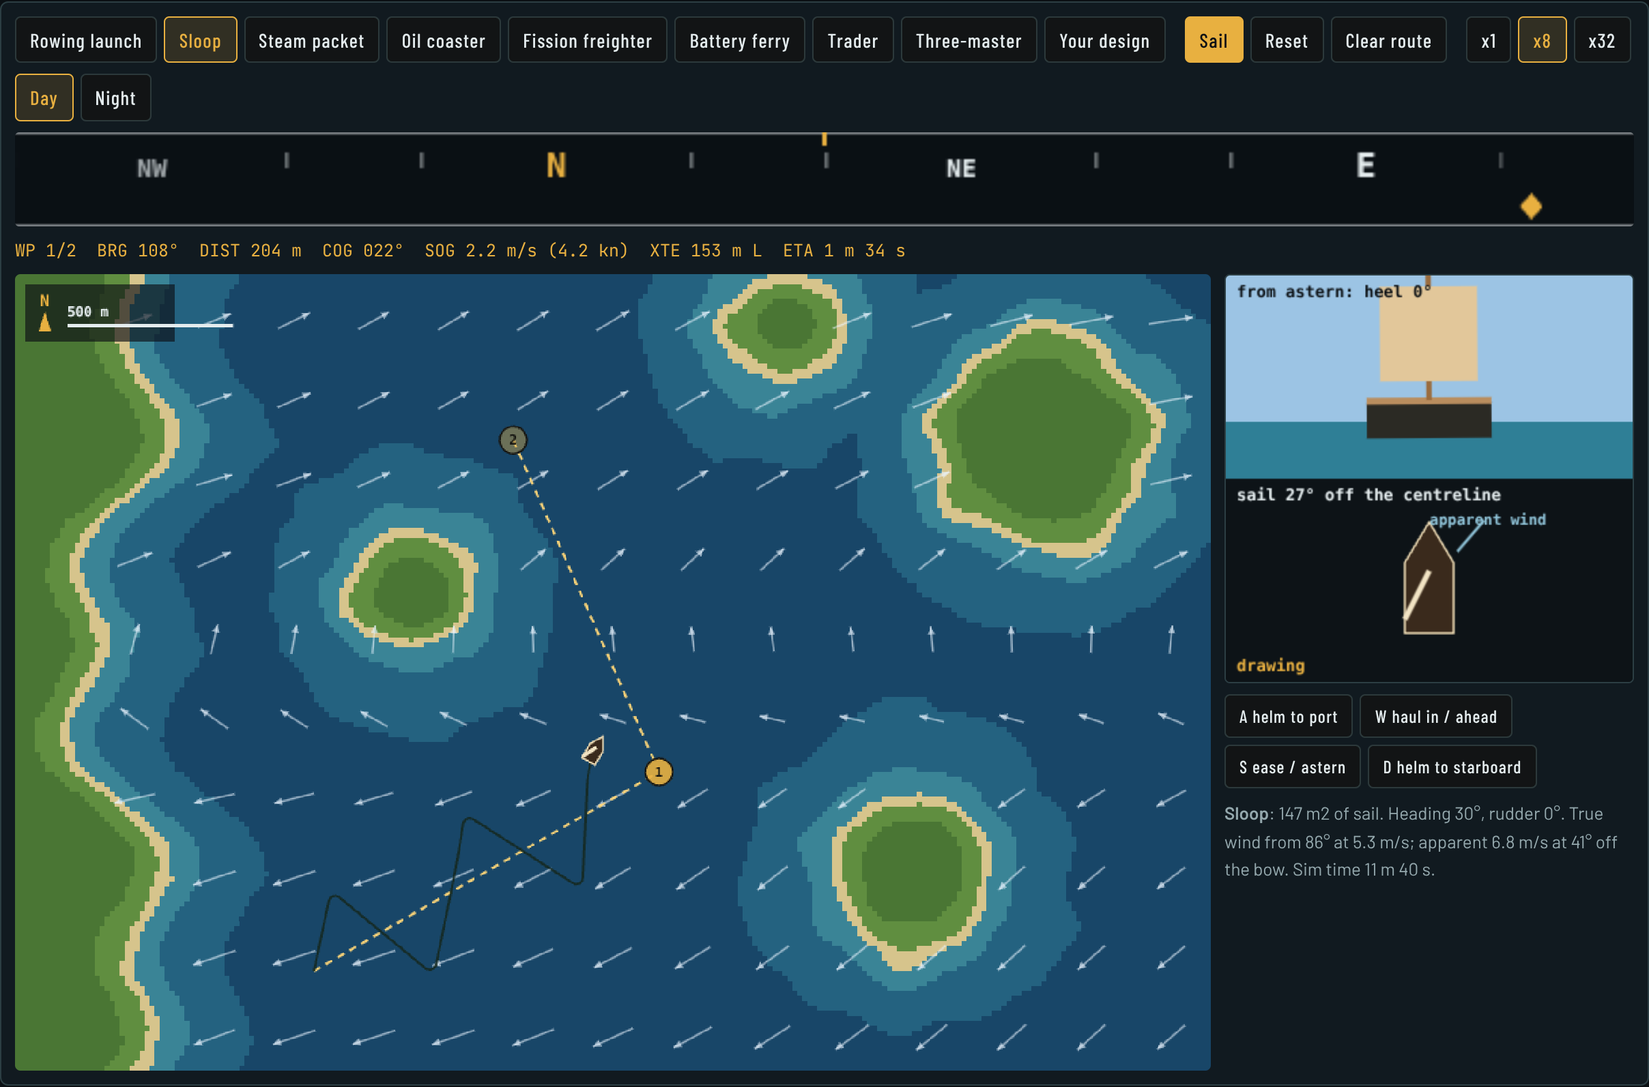
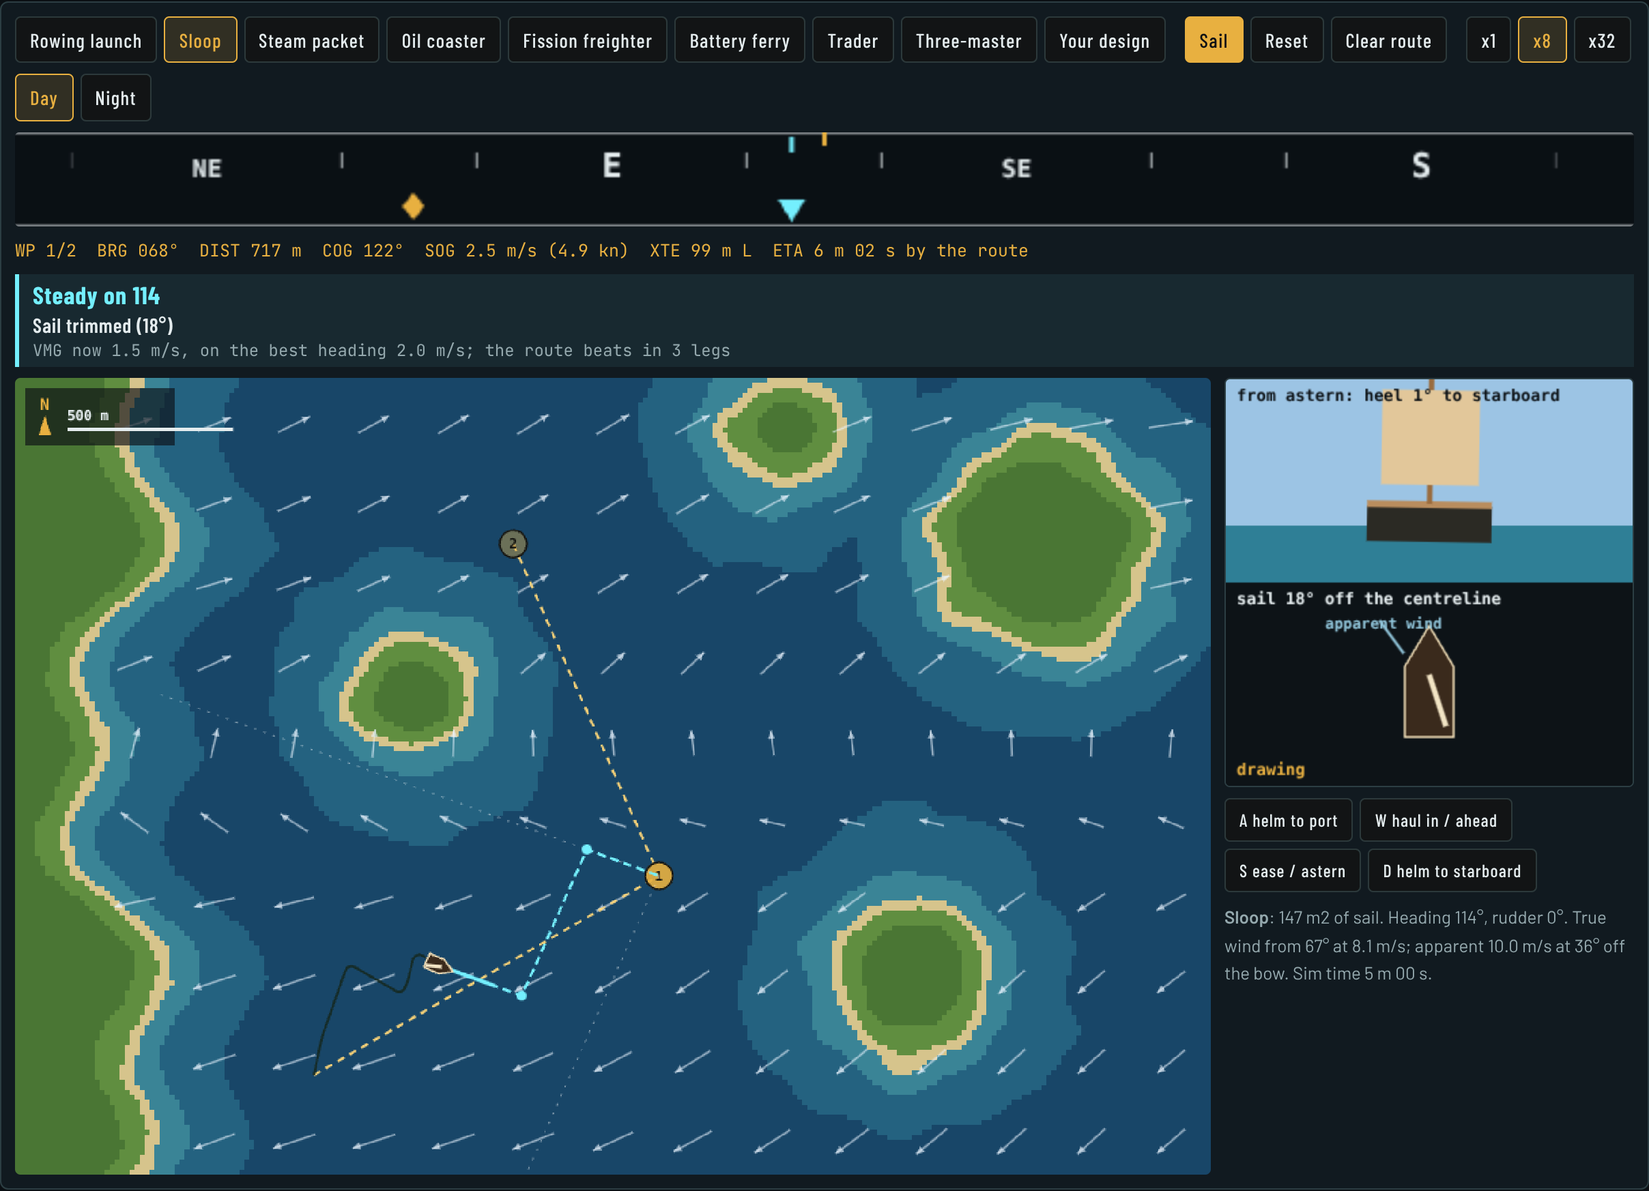
M23: the GPS coaches the helm and the sail, and plans a sailing route
The owner: "the ship gps system should tell me what direction to turn my
ship and what direction to turn the sail to get the optimal speed towards
my waypoint", and "a sailing route if you will". Sail it sweeps headings
through the ship's own sail and drag model for the best speed made good,
plans the route a sailor would sail (one board, or close-hauled legs
between laylines with tack points, gybes downwind), and advises in words:
the turn, when to tack, the sail trim and the VMG it would gain. The
compass bar marks the best heading; the chart draws the route. Advice
only: the player steers. Screenshots on SwiftShader.

Claude-Session: https://claude.ai/code/session_01SztpvFkncDFbmhJsds55PW

diff --git a/docs/mockups/drydock.html b/docs/mockups/drydock.html
@@ -142,6 +142,11 @@ tr:last-child td{border-bottom:0}
 .sailbar{display:flex;flex-wrap:wrap;gap:8px 14px}
 .seg button.go{background:var(--amber);color:var(--ground);border-color:var(--amber)}
 #compass{width:100%;height:auto;display:block;border-radius:3px}
+.advice{display:grid;gap:2px;border-left:3px solid #74effe;padding:4px 10px;background:rgba(116,239,254,.07)}
+.advice .h{font:700 18px var(--display);letter-spacing:.03em;color:#74effe}
+.advice .h.tack{color:var(--amber)}
+.advice .sl{font:600 15px var(--display);letter-spacing:.03em}
+.advice .v{font:12px var(--mono);color:var(--muted)}
 .gps{font-size:12.5px;color:var(--amber);white-space:pre-wrap;min-height:1.5em}
 .sailgrid{display:grid;grid-template-columns:minmax(0,1fr) 300px;gap:10px;align-items:start}
 #seamap{width:100%;height:auto;display:block;border-radius:4px;cursor:crosshair;image-rendering:pixelated;touch-action:none}
@@ -226,7 +231,7 @@ tr:last-child td{border-bottom:0}
 
 <section aria-labelledby="s4">
   <h2 id="s4"><span class="n">4</span>Sail it</h2>
-  <p>A sea chart drawn compass-north up, as the game's map is, with the wind as arrows: trades from the east-north-east in the south, westerlies in the north, a slack band between. Click the chart to add a waypoint, drag one to move it, right-click to take it away. Then press <b>Sail</b>. A and D put the helm over (a rudder is a foil: she turns only with way on). On a sailing ship W hauls the sheet in and S eases it; on a powered one W and S step the telegraph through astern, stop, slow, half and full. Nothing steers for you: a sailing ship cannot point closer than about 45 degrees to the wind, so to reach a waypoint upwind she must tack. A waypoint counts as reached within 30 m, and the next one takes over.</p>
+  <p>A sea chart drawn compass-north up, as the game's map is, with the wind as arrows: trades from the east-north-east in the south, westerlies in the north, a slack band between. Click the chart to add a waypoint, drag one to move it, right-click to take it away. Then press <b>Sail</b>. A and D put the helm over (a rudder is a foil: she turns only with way on). On a sailing ship W hauls the sheet in and S eases it; on a powered one W and S step the telegraph through astern, stop, slow, half and full. Nothing steers for you: a sailing ship cannot point closer than about 45 degrees to the wind, so to reach a waypoint upwind she must tack. A waypoint counts as reached within 30 m, and the next one takes over. The GPS plans the route a sailor would sail (the cyan dashes: straight when the mark can be laid on one board, close-hauled legs between the faint laylines when it is upwind, tack points as dots), marks the best heading on the compass bar (cyan) beside the waypoint (amber), and tells you which way to turn and how to trim. It advises; it never steers.</p>
   <div class="sailwrap" id="sailWrap" tabindex="0" aria-label="Sail it: click the chart for waypoints, A and D steer, W and S sheet or throttle">
     <div class="sailbar">
       <div class="seg" id="sailShip" role="group" aria-label="Ship"></div>
@@ -236,6 +241,7 @@ tr:last-child td{border-bottom:0}
     </div>
     <canvas id="compass" width="720" height="42" aria-label="Compass bar: the heading, and the active waypoint as a diamond"></canvas>
     <div class="gps mono" id="gps"></div>
+    <div class="advice" id="advice" aria-live="polite"></div>
     <div class="sailgrid">
       <canvas id="seamap" width="960" height="640" aria-label="Sea chart, north up"></canvas>
       <div class="sailside">
@@ -1382,6 +1388,22 @@ let dockApi = null;
   const keys = new Set();
   let running = false, warp = 8, night = Q.get("stime") === "night";
   function reset() { Object.assign(S, {x: START.x, y: START.y, psi: START.psi, u: 0, rud: 0, delta: 45, thr: 1, rowT: 0, heel: 0, lee: 0, t: 0, track: [[START.x, START.y]], aground: false, done: false}); ai = 0; from = {x: START.x, y: START.y}; }
+  // ---- the sail as a foil in the apparent wind: the one model the sim, the polar and the advice all use
+  function sailF(beta, delta, A) {
+    const alpha = beta - delta, luff = Math.min(1, Math.max(0, (beta - 20) / 12));   // the sail luffs inside about 25 degrees of apparent wind: about 45 degrees of true wind
+    let CL = alpha <= 0 ? 0 : alpha <= 15 ? 0.09 * alpha : Math.max(0, 1.35 - 0.035 * (alpha - 15));
+    CL *= luff * luff * (3 - 2 * luff);
+    const CD = 0.05 + 1.2 * Math.sin(Math.max(0, alpha) * deg) ** 2 + 0.1 * CL * CL, q = 0.5 * RHO_AIR * A * A * P.SA, b = beta * deg;
+    return {drive: q * (CL * Math.sin(b) - CD * Math.cos(b)), side: q * (CL * Math.cos(b) + CD * Math.sin(b)), alpha};
+  }
+  function apparent(hd, u, w) { const h = {e: Math.sin(hd * deg), n: Math.cos(hd * deg)}, ae = w.e - u * h.e, an = w.n - u * h.n, A = Math.hypot(ae, an) || 1e-6; return {A, beta: Math.acos(Math.max(-1, Math.min(1, (-ae * h.e - an * h.n) / A))) / deg}; }
+  function bestTrim(beta, A) { let bd = 0, bv = -Infinity; for (let d = 0; d <= 90; d += 3) { const v = sailF(beta, d, A).drive; if (v > bv) { bv = v; bd = d; } } return {delta: bd, drive: bv}; }
+  // the polar: the steady speed through the water on a heading, sails trimmed for the most drive
+  function polar(hd, w) {
+    const net = u => { const ap = apparent(hd, u, w); return bestTrim(ap.beta, ap.A).drive - (P.s.R(u) + 150 * u); };
+    if (net(0) <= 0) return 0;
+    let lo = 0, hi = 20; for (let i = 0; i < 16; i++) { const m = (lo + hi) / 2; if (net(m) > 0) lo = m; else hi = m; } return lo;
+  }
   // ---- one step of the physics
   function step(dt, ctl) {
     const w = wind(S.x, S.y), h = {e: Math.sin(S.psi * deg), n: Math.cos(S.psi * deg)}, right = {e: Math.cos(S.psi * deg), n: -Math.sin(S.psi * deg)};
@@ -1394,14 +1416,7 @@ let dockApi = null;
     if (P.sail && ctl.ease) S.delta = Math.min(90, S.delta + 25 * dt);
     if (!P.sail) S.delta = Math.max(0, Math.min(90, beta - 15));
     let drive = 0, side = 0;
-    if (P.SA > 0) {
-      const alpha = beta - S.delta, luff = Math.min(1, Math.max(0, (beta - 20) / 12));   // the sail luffs inside about 25 degrees of apparent wind: about 45 degrees of true wind
-      let CL = alpha <= 0 ? 0 : alpha <= 15 ? 0.09 * alpha : Math.max(0, 1.35 - 0.035 * (alpha - 15));
-      CL *= luff * luff * (3 - 2 * luff);
-      const CD = 0.05 + 1.2 * Math.sin(Math.max(0, alpha) * deg) ** 2 + 0.1 * CL * CL, q = 0.5 * RHO_AIR * A * A * P.SA, b = beta * deg;
-      drive = q * (CL * Math.sin(b) - CD * Math.cos(b)); side = q * (CL * Math.cos(b) + CD * Math.sin(b));
-      S.alpha = alpha;
-    }
+    if (P.SA > 0) { const f2 = sailF(beta, S.delta, A); drive = f2.drive; side = f2.side; S.alpha = f2.alpha; }
     let thrust = 0;
     if (P.power) {
       const frac = THR[S.thr][1];
@@ -1431,6 +1446,55 @@ let dockApi = null;
     return {brg, dist, xte, eta: S.sog > 0.2 ? dist / S.sog : Infinity};
   }
   const fmtT = s => !isFinite(s) ? "--" : s >= 3600 ? `${Math.floor(s / 3600)} h ${Math.round(s % 3600 / 60)} m` : `${Math.floor(s / 60)} m ${String(Math.round(s % 60)).padStart(2, "0")} s`;
+  // ---- the sailing route (decision 3a): straight if the mark can be laid on one board, else close-hauled (or gybing)
+  // legs between the laylines, tacking where the cross-track error reaches the lane; the helm advice steers the first leg
+  let plan = null;
+  function replan() {
+    plan = null; if (!P.ok || ai >= wps.length) return;
+    const mk = wps[ai], w = wind(S.x, S.y), brg = wrap360(Math.atan2(mk.x - S.x, mk.y - S.y) / deg), dist = Math.hypot(mk.x - S.x, mk.y - S.y);
+    const fromSide = hd => Math.sign(wrap180(w.from - hd)) || 1;   // +1: the wind comes from starboard
+    if (!P.SA || !P.sail) { const v = Math.max(S.u, 0.1); plan = {legs: [{x0: S.x, y0: S.y, x1: mk.x, y1: mk.y, hd: brg, v}], best: brg, vmgBest: v, straight: true, delta: null, laylines: [], w, brg, tackNow: false}; plan.eta = dist / v; return; }
+    const pol = []; for (let hd = 0; hd < 360; hd += 2) { const v = polar(hd, w); pol.push({hd, v, vmg: v * Math.cos((hd - brg) * deg), side: fromSide(hd)}); }
+    const best = pol.reduce((a, b) => b.vmg > a.vmg ? b : a), boards = [1, -1].map(sd => pol.filter(p => p.side === sd).reduce((a, b) => b.vmg > a.vmg ? b : a, {vmg: -Infinity}));
+    const straight = Math.abs(wrap180(best.hd - brg)) <= 3 || boards.some(b => !isFinite(b.vmg));
+    const legs = [];
+    if (straight) { const v = polar(brg, w); legs.push({x0: S.x, y0: S.y, x1: mk.x, y1: mk.y, hd: brg, v: Math.max(v, 0.1)}); }
+    else {
+      const cur = fromSide(S.psi), here = boards.find(b => b.side === cur), there = boards.find(b => b.side !== cur);
+      let b = here.vmg >= there.vmg * 0.9 ? here : there, other = b === here ? there : here, x = S.x, y = S.y;
+      const lane = Math.max(80, Math.min(260, dist * 0.25)), lx = (mk.x - S.x) / dist, ly = (mk.y - S.y) / dist;
+      for (let n = 0; n < 24; n++) {
+        const he = Math.sin(b.hd * deg), hn = Math.cos(b.hd * deg), oe = Math.sin(other.hd * deg), on = Math.cos(other.hd * deg);
+        // where along this board the mark comes onto the other board's layline
+        const det = he * (-on) - hn * (-oe), t = det ? ((mk.x - x) * (-on) - (mk.y - y) * (-oe)) / det : -1;
+        // where this board meets the edge of the lane
+        const cxs = (x - S.x) * ly - (y - S.y) * lx, rate = he * ly - hn * lx, tl = rate ? ((Math.sign(rate) * lane) - cxs) / rate : Infinity;
+        if (t >= 0 && t <= tl) { legs.push({x0: x, y0: y, x1: x + he * t, y1: y + hn * t, hd: b.hd, v: b.v}); x += he * t; y += hn * t; legs.push({x0: x, y0: y, x1: mk.x, y1: mk.y, hd: other.hd, v: other.v}); break; }
+        const tt = Math.max(0, tl); legs.push({x0: x, y0: y, x1: x + he * tt, y1: y + hn * tt, hd: b.hd, v: b.v}); x += he * tt; y += hn * tt; [b, other] = [other, b];
+        if (n === 23) legs.push({x0: x, y0: y, x1: mk.x, y1: mk.y, hd: b.hd, v: b.v});
+      }
+    }
+    const len = l => Math.hypot(l.x1 - l.x0, l.y1 - l.y0);
+    while (legs.length > 1 && len(legs[0]) < 15) legs.shift();   // a leg too short to sail: the tack is now
+    const first = legs[0], ap = apparent(first.hd, Math.max(S.u, first.v * 0.8), w);
+    plan = {legs, best: first.hd, vmgBest: first.v * Math.cos((first.hd - brg) * deg), straight, brg, w,
+      tackNow: !straight && fromSide(first.hd) !== fromSide(S.psi), delta: bestTrim(ap.beta, ap.A).delta,
+      eta: legs.reduce((a, l) => a + len(l) / Math.max(0.1, l.v), 0), laylines: straight ? [] : boards.map(b => b.hd)};
+  }
+  function advice() {
+    if (!plan) return null;
+    const turn = wrap180(plan.best - S.psi), side = turn > 0 ? "starboard" : "port", gp = gps(), vmgNow = S.sog * Math.cos((S.cog - gp.brg) * deg);
+    let helm;
+    if (plan.tackNow) { const through = Math.sign(turn) === Math.sign(wrap180(plan.w.from - S.psi)); helm = `${through ? "Tack" : "Gybe"} now: bring her ${through ? "through" : "away from"} the wind to ${side} (head ${String(Math.round(plan.best) % 360).padStart(3, "0")})`; }
+    else helm = Math.abs(turn) < 4 ? `Steady on ${String(Math.round(S.psi) % 360).padStart(3, "0")}` : `Turn ${Math.abs(Math.round(turn))}° to ${side} (head ${String(Math.round(plan.best) % 360).padStart(3, "0")})`;
+    let sail = "";
+    if (P.SA > 0 && P.sail) {
+      const d = plan.delta - S.delta;
+      sail = Math.abs(d) < 3 ? `Sail trimmed (${S.delta.toFixed(0)}°)` : d > 0 ? `Ease the sail ${Math.round(d)}° (to ${plan.delta}°)` : `Haul in ${Math.round(-d)}° (to ${plan.delta}°)`;
+      if (S.beta < 24) sail += ": in irons"; else if (S.alpha < 0) sail += ": luffing"; else if (S.alpha > 22) sail += ": stalled";
+    } else if (P.power) sail = `Telegraph: ${THR[S.thr][0]}`;
+    return {helm, sail, vmgNow, vmgBest: plan.vmgBest, tack: plan.tackNow};
+  }
   // ---- drawing
   const X = x => x * K, Y = y => (WY - y) * K;
   function drawMap() {
@@ -1450,6 +1514,15 @@ let dockApi = null;
     wps.forEach((w, i) => { c.beginPath(); c.arc(X(w.x), Y(w.y), R_WP * K + 3, 0, Math.PI * 2); c.fillStyle = i < ai ? "rgba(143,220,154,0.5)" : i === ai ? "rgba(232,176,64,0.9)" : "rgba(232,176,64,0.4)"; c.fill(); c.strokeStyle = "#161612"; c.lineWidth = 1.5; c.stroke(); c.fillStyle = "#161612"; c.font = "700 11px JetBrains Mono, monospace"; c.fillText(String(i + 1), X(w.x) - 3.5, Y(w.y) + 4); });
     // track
     c.strokeStyle = night ? "rgba(143,220,154,0.75)" : "rgba(20,40,30,0.85)"; c.lineWidth = 2; c.beginPath(); S.track.forEach(([x, y], i) => i ? c.lineTo(X(x), Y(y)) : c.moveTo(X(x), Y(y))); c.lineTo(X(S.x), Y(S.y)); c.stroke();
+    // the sailing route: laylines faint, legs dashed, tack points marked, and the best heading from the bow
+    if (plan) {
+      const mk = wps[ai];
+      c.strokeStyle = night ? "rgba(116,239,254,0.25)" : "rgba(255,255,255,0.4)"; c.lineWidth = 1; c.setLineDash([2, 6]);
+      for (const hd of plan.laylines) { c.beginPath(); c.moveTo(X(mk.x), Y(mk.y)); c.lineTo(X(mk.x - Math.sin(hd * deg) * 1600), Y(mk.y - Math.cos(hd * deg) * 1600)); c.stroke(); }
+      c.setLineDash([7, 4]); c.strokeStyle = "#74effe"; c.lineWidth = 2.2; c.beginPath(); plan.legs.forEach((l, i) => { if (!i) c.moveTo(X(l.x0), Y(l.y0)); c.lineTo(X(l.x1), Y(l.y1)); }); c.stroke(); c.setLineDash([]);
+      c.fillStyle = "#74effe"; plan.legs.slice(1).forEach(l => { c.beginPath(); c.arc(X(l.x0), Y(l.y0), 4, 0, Math.PI * 2); c.fill(); });
+      c.strokeStyle = "#74effe"; c.lineWidth = 3; c.beginPath(); c.moveTo(X(S.x), Y(S.y)); c.lineTo(X(S.x + Math.sin(plan.best * deg) * 180), Y(S.y + Math.cos(plan.best * deg) * 180)); c.stroke();
+    }
     // the ship, drawn large: a hull pointing along her heading, the boom to leeward, running lights at night
     c.save(); c.translate(X(S.x), Y(S.y)); c.rotate(S.psi * deg);
     if (night) for (const [lx, ly, col] of [[-5, -2, "255,60,60"], [5, -2, "60,255,110"], [0, 11, "255,255,255"]]) { const g = c.createRadialGradient(lx, ly, 0, lx, ly, 10); g.addColorStop(0, `rgba(${col},0.9)`); g.addColorStop(1, `rgba(${col},0)`); c.fillStyle = g; c.fillRect(lx - 10, ly - 10, 20, 20); }
@@ -1476,6 +1549,7 @@ let dockApi = null;
     }
     const gp = gps();
     if (gp) { const d = wrap180(gp.brg - head); if (Math.abs(d) <= 90) { const x = W / 2 + d * px; c.globalAlpha = 1; c.fillStyle = "#e8b040"; c.beginPath(); c.moveTo(x, 27); c.lineTo(x + 5, 33); c.lineTo(x, 39); c.lineTo(x - 5, 33); c.closePath(); c.fill(); } }
+    if (plan) { const d = wrap180(plan.best - head); if (Math.abs(d) <= 90) { const x = W / 2 + d * px; c.globalAlpha = 1; c.fillStyle = "#74effe"; c.beginPath(); c.moveTo(x, H - 2); c.lineTo(x + 6, H - 12); c.lineTo(x - 6, H - 12); c.closePath(); c.fill(); c.fillRect(x - 1, 2, 2, 7); } }
     c.globalAlpha = 1; c.fillStyle = "#e8b040"; c.fillRect(W / 2 - 1, 0, 2, 6);
   }
   function drawHeel() {
@@ -1506,11 +1580,14 @@ let dockApi = null;
   }
   function readout() {
     const gp = gps(), el = document.getElementById("gps"), st = document.getElementById("sailState");
-    el.textContent = gp ? `WP ${ai + 1}/${wps.length}  BRG ${gp.brg.toFixed(0).padStart(3, "0")}°  DIST ${gp.dist >= 1000 ? (gp.dist / 1000).toFixed(2) + " km" : gp.dist.toFixed(0) + " m"}  COG ${S.cog.toFixed(0).padStart(3, "0")}°  SOG ${S.sog.toFixed(1)} m/s (${(S.sog * 1.944).toFixed(1)} kn)  XTE ${Math.abs(gp.xte).toFixed(0)} m ${gp.xte > 1 ? "R" : gp.xte < -1 ? "L" : ""}  ETA ${fmtT(gp.eta)}` : wps.length ? `Route done: every waypoint reached in ${fmtT(S.t)}.` : "No route: click the map to add waypoints.";
+    el.textContent = gp ? `WP ${ai + 1}/${wps.length}  BRG ${gp.brg.toFixed(0).padStart(3, "0")}°  DIST ${gp.dist >= 1000 ? (gp.dist / 1000).toFixed(2) + " km" : gp.dist.toFixed(0) + " m"}  COG ${S.cog.toFixed(0).padStart(3, "0")}°  SOG ${S.sog.toFixed(1)} m/s (${(S.sog * 1.944).toFixed(1)} kn)  XTE ${Math.abs(gp.xte).toFixed(0)} m ${gp.xte > 1 ? "R" : gp.xte < -1 ? "L" : ""}  ETA ${fmtT(plan ? plan.eta : gp.eta)} by the route` : wps.length ? `Route done: every waypoint reached in ${fmtT(S.t)}.` : "No route: click the map to add waypoints.";
+    const ad = advice(), av = document.getElementById("advice");
+    av.innerHTML = ad ? `<div class="h ${ad.tack ? "tack" : ""}">${ad.helm}</div><div class="sl">${ad.sail}</div><div class="v">VMG now ${ad.vmgNow.toFixed(1)} m/s, on the best heading ${ad.vmgBest.toFixed(1)} m/s${plan && !plan.straight ? `; the route beats in ${plan.legs.length} legs` : ""}</div>` : "";
     const w = wind(S.x, S.y);
     st.innerHTML = `<b>${P.name}</b>: ${P.sail ? `${P.SA.toFixed(0)} m2 of sail` : P.row && !P.shaft ? `${P.row.toFixed(1)} kW of oars${S.rowT > 600 ? " (tired: half)" : ""}` : `${(P.shaft / 1000).toFixed(1)} MW to the shaft`}. Heading ${S.psi.toFixed(0)}°, rudder ${S.rud.toFixed(0)}°. True wind from ${w.from.toFixed(0)}° at ${w.spd.toFixed(1)} m/s; apparent ${S.aws.toFixed(1)} m/s at ${S.beta.toFixed(0)}° off the bow. Sim time ${fmtT(S.t)}${S.aground ? ". <b>Aground!</b>" : ""}.`;
   }
-  function draw() { drawMap(); drawCompass(); drawHeel(); readout(); }
+  let planAt = -1e9;
+  function draw() { const now = performance.now(); if (!running || now - planAt > 300) { replan(); planAt = now; } drawMap(); drawCompass(); drawHeel(); readout(); }
   // ---- controls
   const ctl = () => ({left: keys.has("a"), right: keys.has("d"), haul: keys.has("w"), ease: keys.has("s")});
   wrap.addEventListener("keydown", e => {
@@ -1556,12 +1633,12 @@ let dockApi = null;
   params(); reset();
   // ?sail=demo: a scripted helmsman beats toward the first waypoint, for screenshots only (the game has no autopilot at these levels)
   if (Q.get("sail") === "demo") {
-    const T = +(Q.get("demoT") || 520); let tack = Math.sign(wrap180(S.psi - wind(S.x, S.y).from)) || 1, steps = 0, lastX = 0, lastTack = -999;
+    const T = +(Q.get("demoT") || 520), stopTack = Q.has("demoTack"); let steps = 0, t0 = -99;
     while (S.t < T && !S.done && steps++ < 40000) {
-      const gp = gps(), w = wind(S.x, S.y); let target = gp.brg; const off = wrap180(gp.brg - w.from);
-      if (Math.abs(off) < 52) { target = wrap360(w.from + 52 * tack); const ax = Math.abs(gp.xte); if (ax > 160 && ax > lastX && S.t > lastTack + 90) { tack = -tack; lastTack = S.t; } lastX = ax; }
-      const err = wrap180(target - S.psi); const c = {left: err < -4, right: err > 4, haul: false, ease: false};
-      S.delta = Math.max(5, Math.min(90, S.beta - 14)); step(0.1, c);
+      if (S.t - t0 >= 2) { replan(); t0 = S.t; if (stopTack && S.t > 120 && plan && plan.tackNow) break; }
+      const err = plan ? wrap180(plan.best - S.psi) : 0, c = {left: err < -4, right: err > 4, haul: false, ease: false};
+      if (plan && plan.delta != null) S.delta = plan.delta;
+      step(0.1, c);
     }
   }
   draw();

diff --git a/docs/screenshots/mockup-drydock/README.md b/docs/screenshots/mockup-drydock/README.md
@@ -21,8 +21,9 @@ GPU when there is one").
 | `builder.png` | (Taken before the power blocks.) The builder on the trader's main deck (layer 4): the palette, the layer tabs with the waterline layer underlined, the hex grid with the layer below ghosted and walkable cells green, the profile with B, G, M and the waterline, the stats and every check passing. | `?still`, section 2 |
 | `walk-deck-night.jpg` | First person on the trader's aftcastle at the helm, at night, sailing her circle: the stern lantern lights the deck and rail; the island's lighthouse is off the port bow. The HUD gives the walker's cell in the ship's own frame. | `?still`, section 3 |
 | `walk-deck-day.jpg` | The same on the three-master by day, standing in the waist at the gangway, looking forward along the deck to the forecastle under the foresail. | `?still&wtime=day&walk=threemaster&stand=waist&wyaw=0.35&wpitch=0.12&wt=5.0`, section 3 |
-| `sail-tacking-day.png` | "Sail it": the sloop beating toward waypoint 1, dead upwind in the trades. Her track zigzags because she cannot point closer than about 45 degrees to the true wind. The compass bar marks the waypoint; the GPS line gives bearing, distance, COG/SOG, cross-track error and ETA. On the right: the ship from astern and from above with her sail and the apparent wind. The track was sailed by a scripted helmsman behind the `?sail=demo` flag, for the picture only (the game has no autopilot at these levels). | `?still&sail=demo&demoT=700`, section 4 |
-| `sail-tacking-night.png` | The same at night: the chart dims, the coast towns' lights glow, and the ship shows her red, green and stern lights. | `?still&sail=demo&demoT=700&stime=night`, section 4 |
+| `sail-tacking-day.png` | "Sail it": the sloop beating toward waypoint 1, dead upwind in the trades (decision 3a). The GPS plans the sailing route ahead of her (cyan dashes: close-hauled legs between the faint laylines, tack points as dots) and advises "Steady on 114", "Sail trimmed (18°)", with the VMG now against the VMG on the best heading. The compass bar marks the waypoint (amber diamond) and the best heading (cyan). The track behind her was sailed by a scripted helmsman following the advice, behind the `?sail=demo` flag, for the picture only: the page advises, it never steers. | `?still&sail=demo&demoT=300`, section 4 |
+| `sail-tacking-night.png` | The same at night: the chart dims, the coast towns' lights glow, and the ship shows her red, green and stern lights. | `?still&sail=demo&demoT=300&stime=night`, section 4 |
+| `sail-tack-now.png` | A "Tack now" moment: she has reached the lane's edge on the port-tack leg, and the GPS says "Tack now: bring her through the wind to starboard (head 114)", the best-heading marker far to starboard on the compass bar. | `?still&sail=demo&demoT=900&demoTack`, section 4 |
 | `power-levels.png` | The six power levels, one preset each (rowing launch, sloop, steam packet, oil coaster, fission freighter, battery ferry), with their profiles, power, top speed and range. | `?still`, section 7 |
 | `builder-steam.png` | The builder on the steam packet: the twelve power blocks in the palette, and the stats and checks for power, top speed, fuel aboard and range, the funnel to open air and the propeller aft. | `?still&ship=steam`, section 2 |
 | `contact-sheet.png` | The new pixel art (28 block icons, 4 textures shown 2 x 2 so a seam would show) beside four of the solitaire collection's references. | `python tools/art/drydock_art.py --sheet` |
